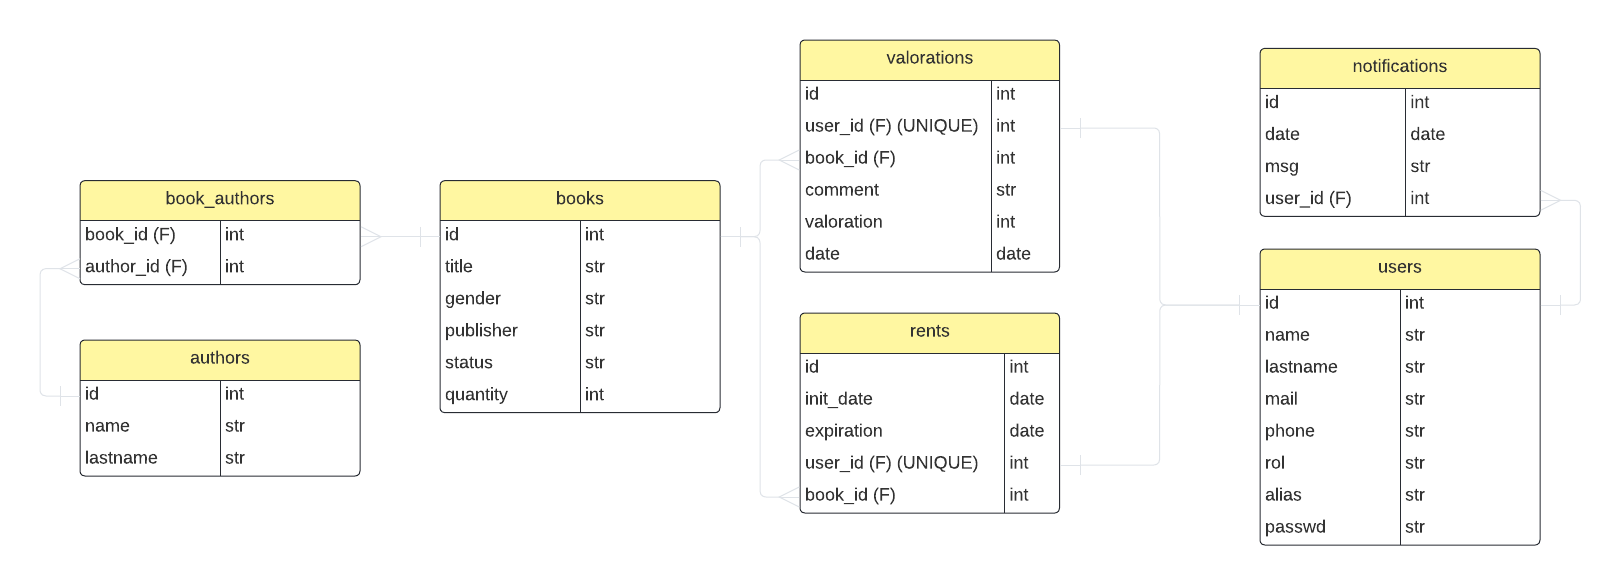
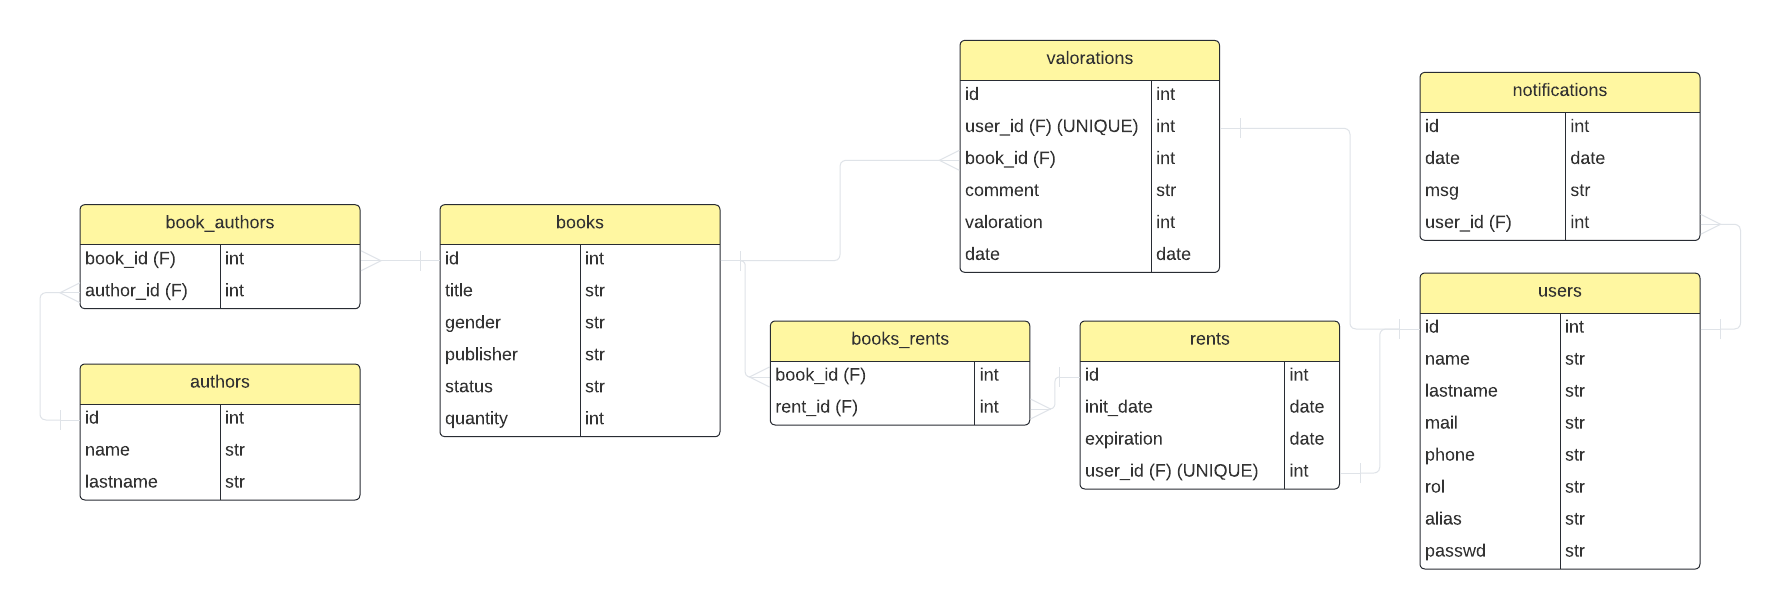
Fix database relations

diff --git a/backend/main/models/book.py b/backend/main/models/book.py
@@ -16,8 +16,11 @@ class Book(db.Model):
     quantity = db.Column(db.Integer)
     # Relation 1:N (1 book : N valorations), Book is parent
     valorations = db.relationship('Valoration', back_populates='book', cascade='all, delete-orphan')
-    # Relation 1:N (1 book : N rents), Book is parent
-    rents = db.relationship('Rent',secondary=books_rents,backref=db.backref('books', lazy='dynamic'))
+    # Relation N:M (N books : M rents), Medium table books_rents
+    rents = db.relationship('Rent', secondary=books_rents, backref=db.backref('books', lazy='dynamic'))
+    # Relation N:M (N authors : M books), Medium table books_authors
+    # No need to define the relation as it was backref in authors
+
     
     def __repr__(self):
         return '<Book> title:%r' % (self.title)

diff --git a/backend/main/models/user.py b/backend/main/models/user.py
@@ -14,7 +14,7 @@ class User(db.Model):
     valoration = db.relationship('Valoration', uselist=False, back_populates='user', cascade='all, delete-orphan')
     # Relation 1:1 (1 user : 1 rent), User is Parent
     rent = db.relationship('Rent', uselist=False, back_populates='user', cascade='all, delete-orphan')
-
+    # Relation 1:N (1 user : N notifications), User is parent
     notifications = db.relationship('Notification', back_populates='user', cascade='all, delete-orphan')
 
     def __repr__(self):

diff --git a/backend/main/models/rent.py b/backend/main/models/rent.py
@@ -10,6 +10,8 @@ class Rent(db.Model):
     # Relation 1:1 (1 user : 1 rent), User is Parent
     user_id = db.Column(db.Integer, db.ForeignKey('users.id'), nullable=False)
     user = db.relationship('User', back_populates='rent', uselist=False, single_parent=True)
+    # Relation N:M (N books : M rents), Medium table books_rents
+    # No need to define the relation as it was backref in book
 
     def __repr__(self):
         return '<Rent> id:%r' % (self.id)

diff --git a/backend/main/models/notification.py b/backend/main/models/notification.py
@@ -7,6 +7,7 @@ class Notification(db.Model):
     id = db.Column(db.Integer, primary_key=True)
     date = db.Column(db.DateTime, nullable=False)
     msg = db.Column(db.String(250), nullable=False)
+    # Relation 1:N (1 user : N notifications), User is parent
     user_id = db.Column(db.Integer, db.ForeignKey('users.id'), nullable=False)
     user = db.relationship('User', back_populates='notifications', uselist=False, single_parent=True)
     

diff --git a/backend/main/models/author.py b/backend/main/models/author.py
@@ -11,6 +11,7 @@ class Author(db.Model):
     id = db.Column(db.Integer, primary_key=True)
     name = db.Column(db.String(100), nullable=False)
     lastname = db.Column(db.String(100), nullable=False)
+    # Relation N:M (N authors : M books), Medium table books_authors
     books = db.relationship('Book', secondary=books_authors, backref=db.backref('authors', lazy = 'dynamic'))
     
     def __repr__(self):
